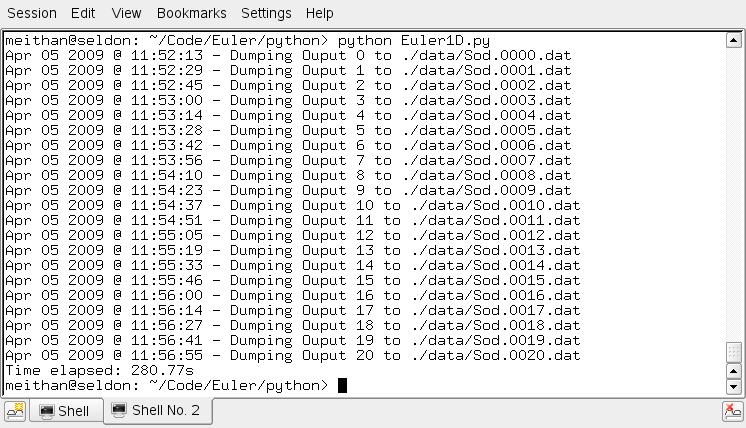
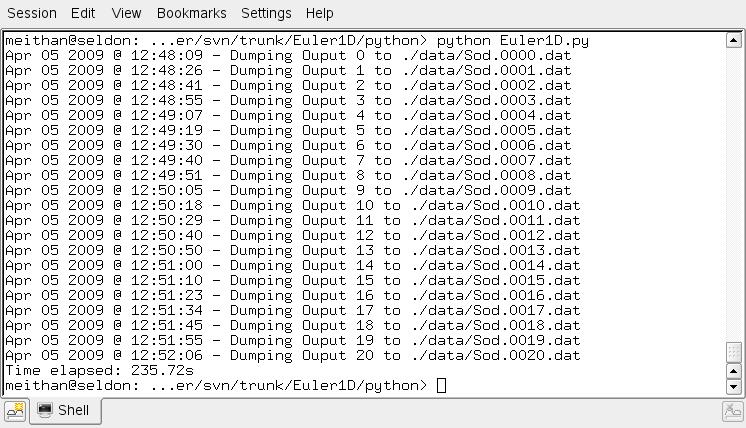
Updated the Euler1D python port, and added a wiki page for it.

diff --git a/Euler1D/python/Euler1D.py b/Euler1D/python/Euler1D.py
@@ -17,8 +17,8 @@
 # they produced the same result.    #
 # The execution times were:         #
 #                                   #
-# Python code: 280.77s              #
-# Fortran90 code: 2.646s            #
+# Python code: 235.72s              #
+# Fortran90 code: 2.315s            #
 #                                   #
 # As seen, there is a monumental    #
 # 100X difference in performance,   #  
@@ -90,7 +90,7 @@ def initcond():
    # This is a standard test for hydro codes
    # Velocity = 0 everywhere
    # Density = 1.0 on left half, 0.125 on right half
-   # Pressure = 1.0 on left, 0.1 on right
+   # Pressure = 1.0 on left, 0.125 on right
   for X in range(NX):
     if (X<=NX/2):
       P[X][1] = 0.0
@@ -99,7 +99,7 @@ def initcond():
     else:
       P[X][1] = 0.0
       P[X][2] = 0.125
-      P[X][3] = 0.1
+      P[X][3] = 0.125
   getvars()
 
 #############################
@@ -165,8 +165,9 @@ def lax():
 #######################
 def boundary():
 
-  # Transmission boundary condition
-  for V in [1,2,3]:
+  # Reflection boundary condition
+  UP[0][2] = -1*UP[NX-2][2]
+  for V in [1,3]:
     UP[0][V] = UP[1][V]
     UP[NX-1][V] = U[NX-2][V]
 
